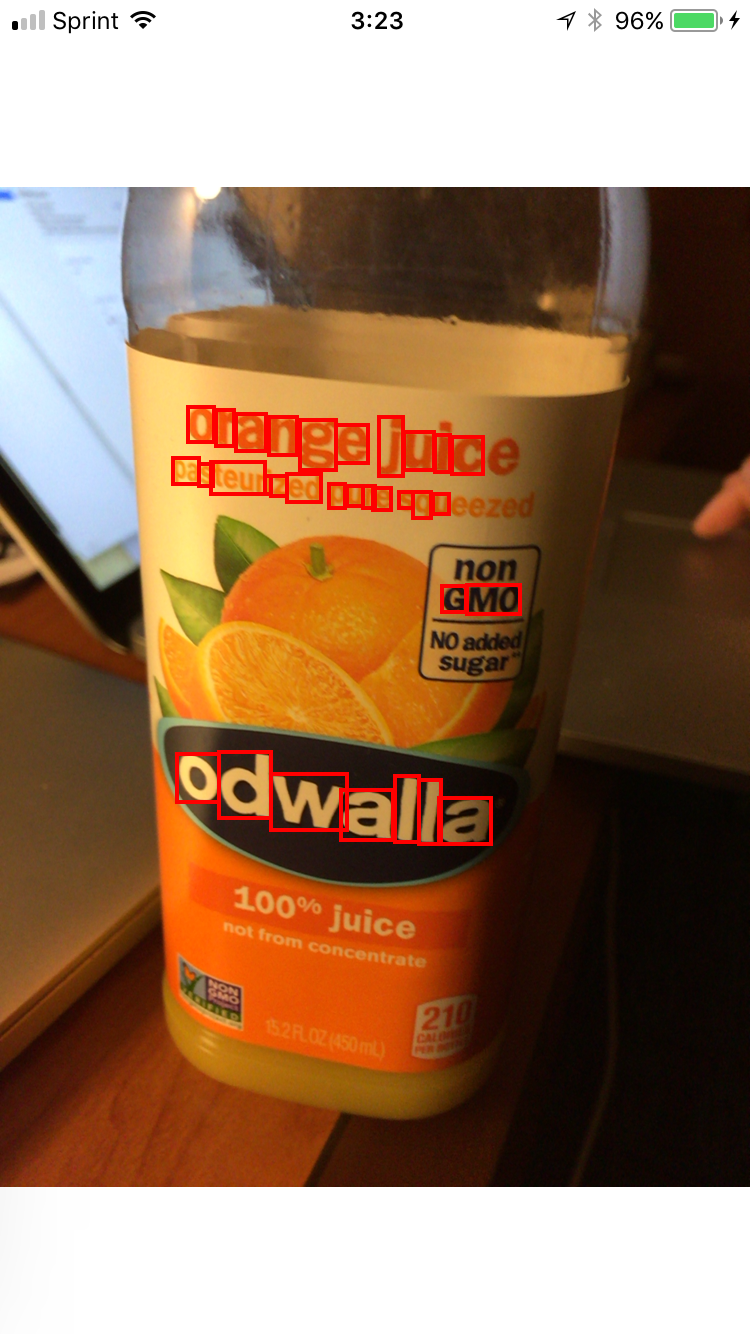
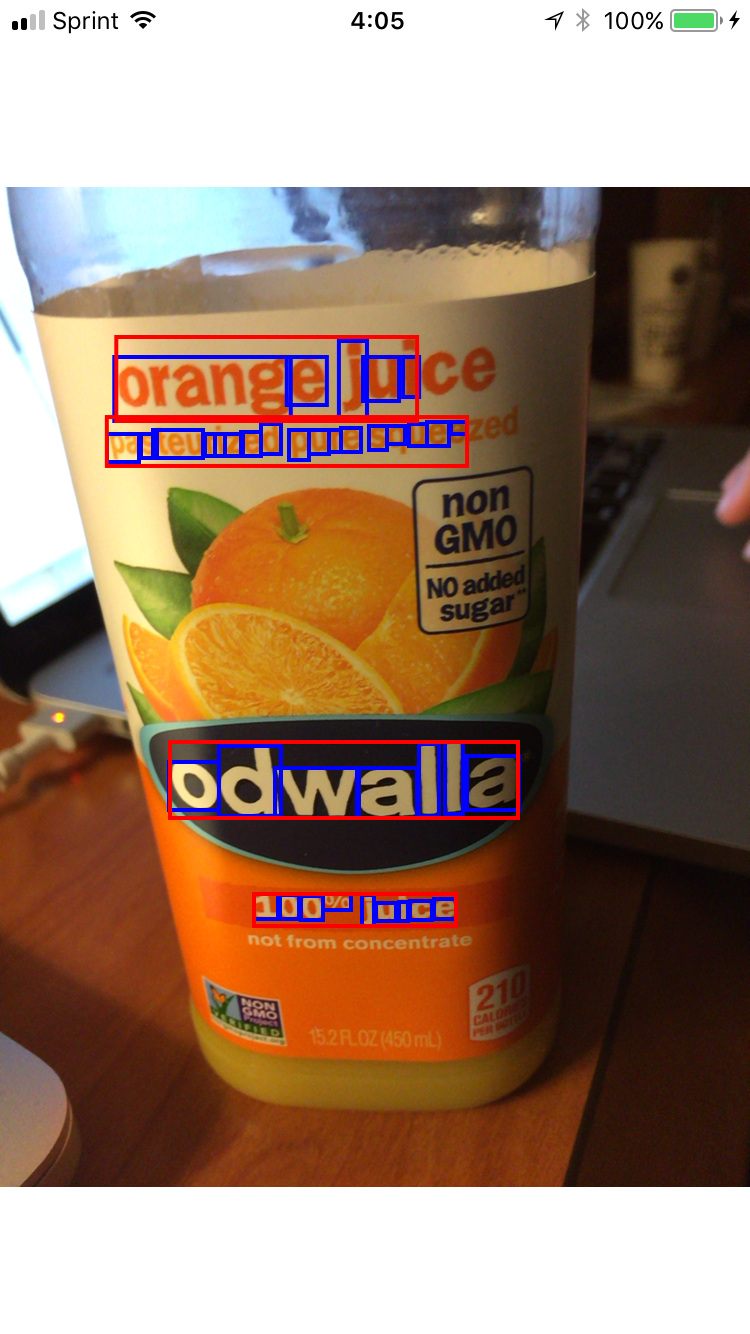
[modify] to show boundingBox

diff --git a/TextRecognitionSample/ViewController.swift b/TextRecognitionSample/ViewController.swift
@@ -39,7 +39,12 @@ extension CGImagePropertyOrientation {
 // 画面上に認識矩形を描画するための custom view
 class VisualizeRectanlgesView: UIView {
     
-    var rectangles: [VNRectangleObservation] = [] {
+    var rectangles: [CGRect] = [] {
+        didSet {
+            setNeedsDisplay()
+        }
+    }
+    var characterRectangles: [VNRectangleObservation] = [] {
         didSet {
             setNeedsDisplay()
         }
@@ -51,11 +56,16 @@ class VisualizeRectanlgesView: UIView {
         return CGPoint(x: point.x * size.width, y: (1.0 - point.y) * size.height)
     }
     
+    private func scaledRect(rect: CGRect, to size: CGSize) -> CGRect {
+        return CGRect(x: rect.minX * size.width, y: (1.0 - rect.maxY) * size.height, width: rect.width * size.width, height: rect.height * size.height)
+    }
+    
     override func draw(_ rect: CGRect) {
         backgroundColor = UIColor.clear
-        UIColor.red.setStroke()
         
-        for rect in rectangles {
+        UIColor.blue.setStroke()
+        
+        for rect in characterRectangles {
             let path = UIBezierPath()
             path.lineWidth = 2
             path.move(to: scaledPoint(point: rect.topLeft, to: frame.size))
@@ -64,6 +74,14 @@ class VisualizeRectanlgesView: UIView {
             path.addLine(to: scaledPoint(point: rect.bottomLeft, to: frame.size))
             path.addLine(to: scaledPoint(point: rect.topLeft, to: frame.size))
             path.close()
+            path.stroke()
+        }
+        
+        UIColor.red.setStroke()
+        
+        for rect in rectangles {
+            let path = UIBezierPath(rect: scaledRect(rect: rect, to: frame.size))
+            path.lineWidth = 2
             path.stroke()
         }
     }
@@ -181,7 +199,14 @@ extension ViewController: AVCaptureVideoDataOutputSampleBufferDelegate {
         // orientation を必ず設定すること
         let handler = VNImageRequestHandler(ciImage: ciImage, orientation: Int32(orientation.rawValue))
         let request = VNDetectTextRectanglesRequest() { request, error in
-            let rects = request.results?.flatMap { result -> [VNRectangleObservation] in
+            let rects = request.results?.flatMap { result -> [CGRect] in
+                if let observation = result as? VNTextObservation {
+                    return [observation.boundingBox]
+                } else {
+                    return []
+                }
+            } ?? []
+            let characterRects = request.results?.flatMap { result -> [VNRectangleObservation] in
                 if let observation = result as? VNTextObservation {
                     return observation.characterBoxes ?? []
                 } else {
@@ -192,6 +217,7 @@ extension ViewController: AVCaptureVideoDataOutputSampleBufferDelegate {
             // UI の変更はメインスレッドで実行
             DispatchQueue.main.async { [weak self] in
                 self?.visualizeRectanglesView.rectangles = rects
+                self?.visualizeRectanglesView.characterRectangles = characterRects
             }
         }
         request.reportCharacterBoxes = true
